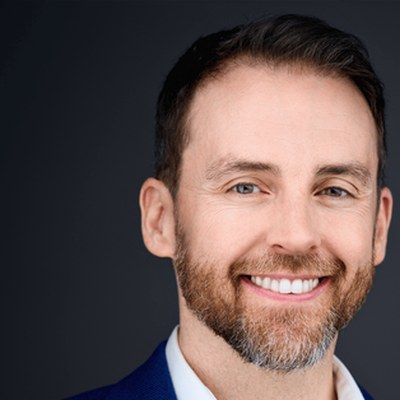
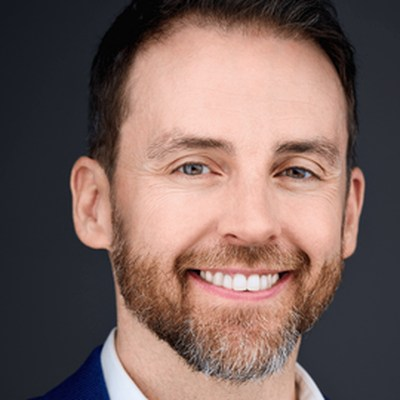
About trays: desktop-gate the swap, delineate the cards, badge Sloan
Mobile fix: the scroll swap now runs only on min-width:768px + fine pointer.
On touch/small screens it collapsed ~700px above the reader and the scroll
compensation fought momentum scrolling, so the viewport jumped. There both
trays are now plain tap-to-open accordions with no auto-scroll.

Delineation: each collapsible tray gets a border, shadow, and rounded card
edge so adjacent closed trays no longer blend into one dark block (mobile
gap bumped too).

Sloan: re-cropped centered (was off to the side) and added the StoryBrand
Certified Guide badge as a corner medallion, matching how he presents
himself on his own site.

diff --git a/styles.css b/styles.css
@@ -1779,7 +1779,7 @@ body.nav-menu-open .sticky-booking-cta {
 }
 
 .content-section {
-  margin-top: clamp(48px, 7vw, 84px);
+  margin-top: clamp(56px, 8vw, 84px);
 }
 
 .person-photo {
@@ -1801,10 +1801,36 @@ body.nav-menu-open .sticky-booking-cta {
   margin-bottom: 0;
 }
 
+/* Circular headshot with a small certification medallion overlapping the corner. */
+.person-photo-wrap {
+  position: relative;
+  display: block;
+  width: 132px;
+  margin-bottom: 22px;
+}
+
+.person-photo-wrap .person-photo {
+  margin-bottom: 0;
+}
+
+.cert-badge {
+  position: absolute;
+  right: -4px;
+  bottom: -2px;
+  width: 46px;
+  height: 46px;
+  border-radius: 50%;
+  border: 2px solid rgba(240, 207, 115, 0.55);
+  background: #000;
+  object-fit: cover;
+  box-shadow: 0 2px 9px rgba(0, 0, 0, 0.55);
+}
+
 .collapsible-section {
   background: linear-gradient(180deg, rgba(12, 29, 45, 0.7), rgba(6, 17, 30, 0.52));
-  border: 0;
-  border-radius: 8px;
+  border: 1px solid rgba(169, 201, 215, 0.16);
+  border-radius: 12px;
+  box-shadow: 0 10px 30px rgba(2, 7, 17, 0.35);
 }
 
 .collapsible-section summary {

diff --git a/script.js b/script.js
@@ -485,8 +485,18 @@ if (canvas) {
 // Scroll-linked tray swap: scrolling past the open Board of Advisors closes it and
 // opens Trusted Partners (and reverses on the way back up). No-op on every page that
 // lacks both trays or in browsers without IntersectionObserver.
+//
+// DESKTOP ONLY. On touch/small screens the swap collapses ~700px above the reader and
+// the scroll compensation fights momentum scrolling, which feels janky. There, both
+// trays stay plain tap-to-open accordions (no auto-scroll, no jump).
 (function setupTraySwap() {
   if (!("IntersectionObserver" in window)) return;
+  if (
+    !window.matchMedia ||
+    !window.matchMedia("(min-width: 768px) and (pointer: fine)").matches
+  ) {
+    return;
+  }
   const advisors = document.getElementById("advisors-tray");
   const partners = document.getElementById("partners-tray");
   if (!advisors || !partners) return;

diff --git a/about.html b/about.html
@@ -300,7 +300,10 @@
         </summary>
         <div class="resource-grid">
           <article class="resource-card">
-            <img class="person-photo" src="/assets/images/partners/sloan-milliken.jpg" alt="Sloan Milliken">
+            <span class="person-photo-wrap">
+              <img class="person-photo" src="/assets/images/partners/sloan-milliken.jpg" alt="Sloan Milliken">
+              <img class="cert-badge" src="/assets/images/partners/storybrand-badge.png" alt="StoryBrand Certified Guide" width="200" height="200" loading="lazy">
+            </span>
             <h3>Brand Message Coaching</h3>
             <p class="advisor-role">Sloan Milliken &middot; Coach, Copywriter, and StoryBrand Guide</p>
             <ul class="advisor-details">
